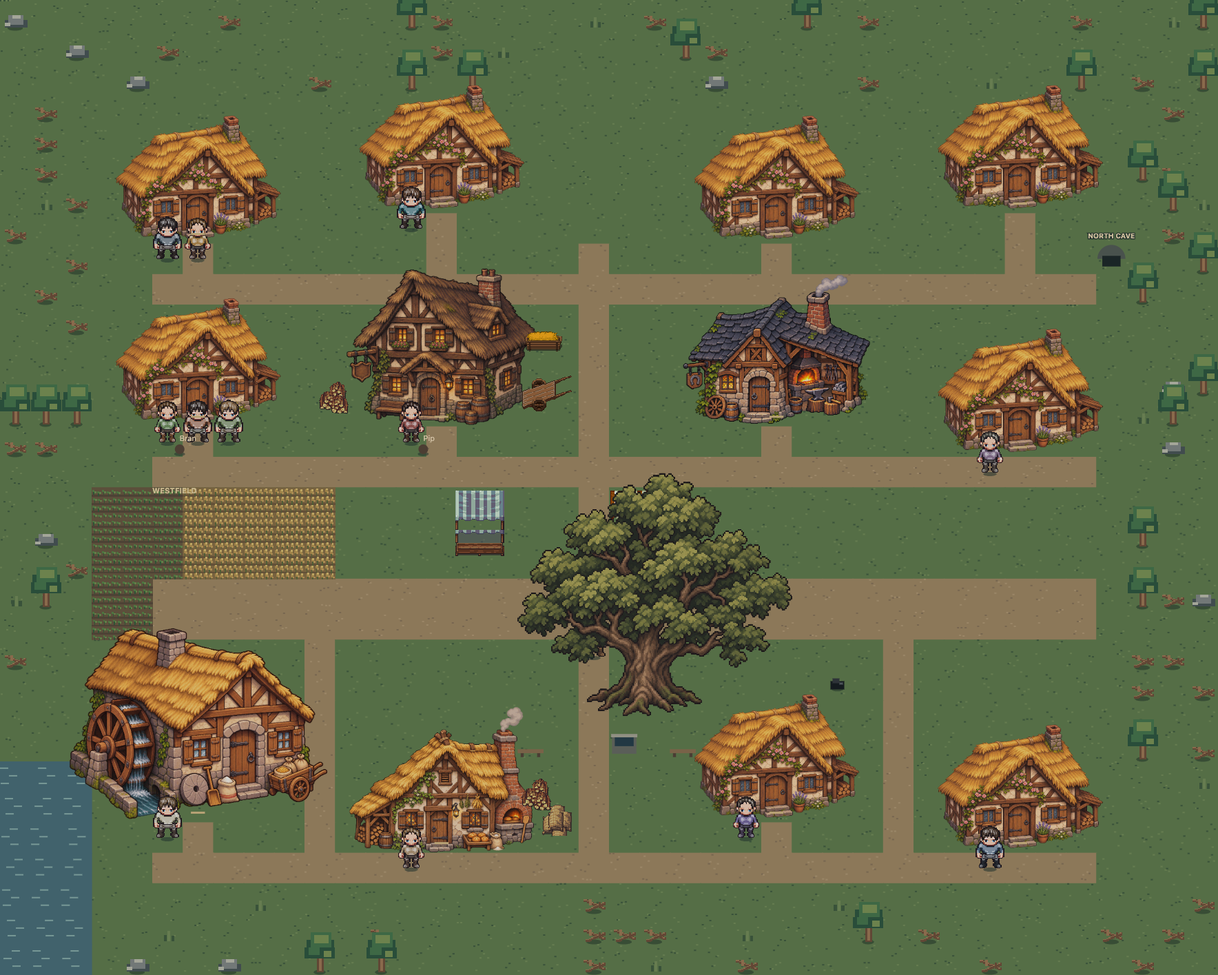
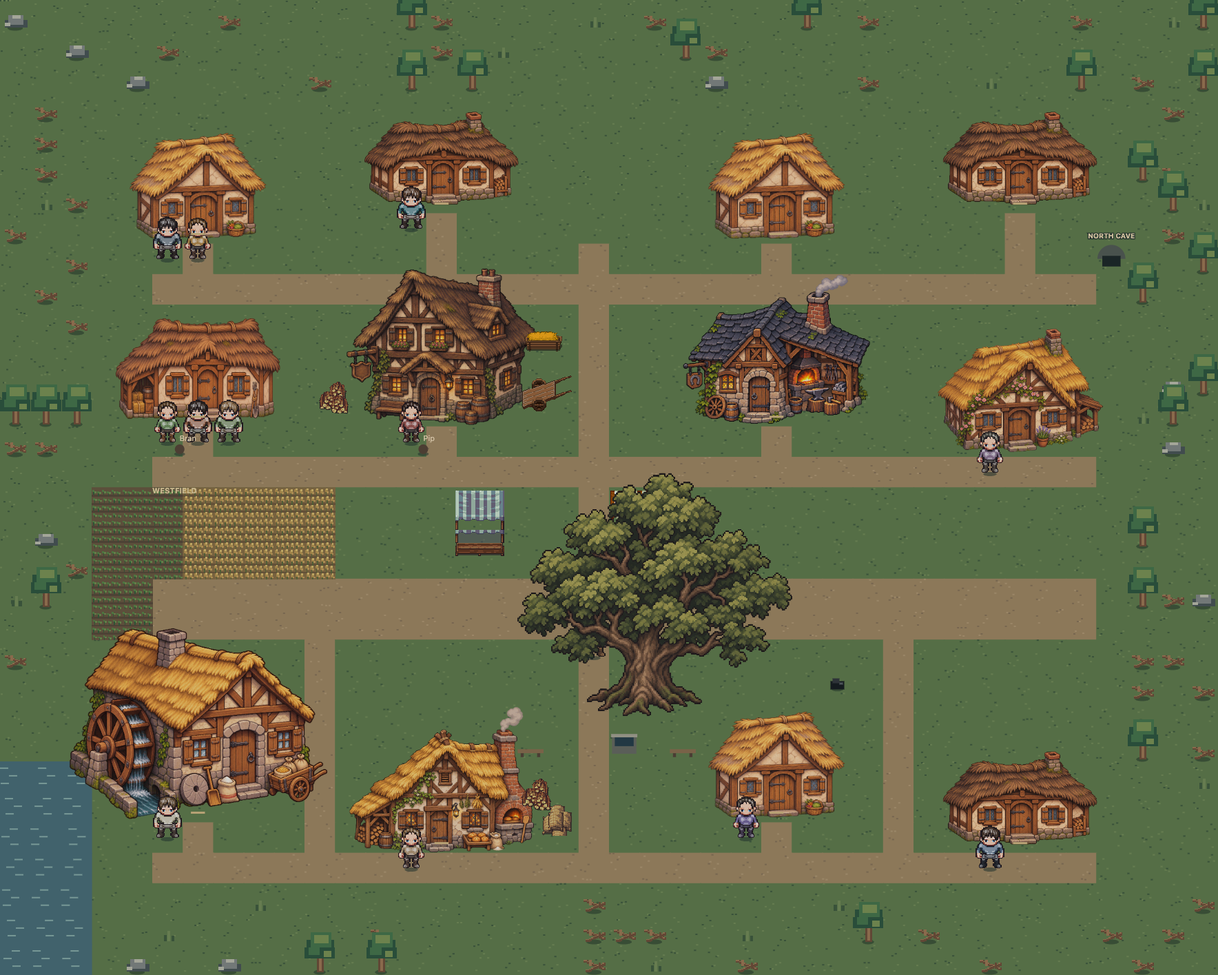
Publish playable Dunmere build

diff --git a/dunmere-living.html b/dunmere-living.html
@@ -1,4 +1,4 @@
-<!doctype html><html lang="en"><head><meta charset="utf-8"><meta name="viewport" content="width=device-width,initial-scale=1,maximum-scale=1,user-scalable=no"><title>Project Kingdom | Brooklands</title><style>*{box-sizing:border-box}body{margin:0;overflow:hidden;background:#293a2e;color:#f4e6ca;font:13px system-ui;touch-action:none}canvas{display:block;width:100vw;height:100dvh}#hud{position:absolute;top:8px;left:8px;max-width:calc(100vw - 172px);background:#182a20e8;border:1px solid #bda578;border-radius:8px;padding:10px;z-index:3}#hud small{display:block;color:#d7c8a9;margin-top:3px}button{background:#435a46;color:#f9ebcc;border:1px solid #cfb98b;border-radius:8px;padding:9px;font:inherit}#actions{position:absolute;right:8px;top:8px;display:grid;grid-template-columns:repeat(2,minmax(0,1fr));gap:5px;width:146px;z-index:4}#actions button{padding:7px 4px;font-size:12px}#joy{position:absolute;left:18px;bottom:22px;width:132px;height:132px;border:3px solid #e0c796;border-radius:50%;background:#253e48aa;touch-action:none;user-select:none;z-index:4}#knob{position:absolute;left:50%;top:50%;width:42px;height:42px;margin-left:-21px;margin-top:-21px;background:#e0c796;border-radius:50%;pointer-events:none;box-shadow:0 2px 8px #0008}#a{position:absolute;right:22px;bottom:43px;width:74px;height:74px;border-radius:50%;background:#875845;font-size:23px;z-index:4}#b{position:absolute;right:104px;bottom:26px;width:66px;height:66px;border-radius:50%;background:#735548;font-size:22px;z-index:4;touch-action:manipulation}#panel{display:none;position:absolute;left:6%;right:6%;bottom:157px;max-height:48vh;overflow:auto;background:#182b21;border:2px solid #d0b486;border-radius:10px;padding:12px;z-index:6}#panel button{margin:4px}#debugpanel{display:none;position:absolute;z-index:9;right:8px;top:52px;width:min(370px,94vw);max-height:67dvh;overflow:auto;background:#13251cf2;border:1px solid #d0b486;border-radius:9px;padding:12px;font:12px ui-monospace,monospace;white-space:pre-wrap;overflow-wrap:anywhere}#debugpanel button{margin:4px}#hint{position:absolute;bottom:6px;left:50%;transform:translateX(-50%);font-size:11px;white-space:nowrap;text-shadow:0 2px 4px black;z-index:3}@media(orientation:landscape){#panel{left:24%;right:24%;bottom:10px}}#bagpanel{display:none;position:absolute;z-index:11;left:50%;top:50%;transform:translate(-50%,-50%);width:min(94vw,380px);background:#1e2b25;border:2px solid #bba077;border-radius:12px;padding:14px;box-shadow:0 8px 45px #000b}#baggrid{display:grid;grid-template-columns:repeat(5,minmax(0,1fr));gap:5px;margin:12px 0}.bagslot{aspect-ratio:1;position:relative;background:#3c4a3c;border:2px solid #756d52;border-radius:5px;touch-action:none;display:flex;align-items:center;justify-content:center;padding:2px}.bagslot.selected{border-color:#e4c881;background:#596047}.bagslot svg{width:85%;height:85%;image-rendering:pixelated;pointer-events:none}.bagslot .qty{position:absolute;bottom:1px;right:4px;color:#f7e9c9;font-weight:bold;text-shadow:1px 1px #111;pointer-events:none}#bagmenu{min-height:46px;display:flex;flex-wrap:wrap;gap:5px}#bagmenu button{padding:7px}#bagpanel .bagheader{display:flex;justify-content:space-between;align-items:center}#baghint{font-size:11px;color:#bcb59d}#bagghost{position:fixed;z-index:30;pointer-events:none;width:54px;height:54px;opacity:.85;display:none}#bagghost svg{width:100%;height:100%}#bagpanel button{touch-action:manipulation}#menutabs{display:grid;grid-template-columns:repeat(4,1fr);gap:3px;margin:10px 0}#menutabs button{font-size:11px;padding:8px 2px}#menutabs button.active{background:#9a754b}#otherview{white-space:pre-line;line-height:1.7;min-height:150px;padding:10px;background:#29392e;border-radius:6px}#bagpanel{max-height:85dvh;overflow:auto}#hud{background:linear-gradient(90deg,#16231ccc,#16231c88);border:0;padding:7px 9px;border-radius:6px;max-width:calc(100vw - 90px);pointer-events:none}#hud b{font-size:11px;letter-spacing:.09em}#hud #stock,#hud #activity{display:none}#actions{display:block;width:auto;right:12px;top:calc(12px + env(safe-area-inset-top,0px))}#actions button{width:44px;height:44px;font-size:23px;background:#273c31dd;border:1px solid #8b987b;border-radius:11px}#devtools{display:none;position:absolute;z-index:12;top:62px;right:10px;background:#1a2823;padding:8px;border-radius:8px;gap:5px;flex-wrap:wrap;max-width:230px}body.dev-mode #devtools{display:flex}#joy{bottom:calc(18px + env(safe-area-inset-bottom,0px));left:18px;background:#223c39aa;border-color:#c9ba92aa}#a{bottom:calc(51px + env(safe-area-inset-bottom,0px));right:19px;box-shadow:0 4px 0 #4b2e27}#b{bottom:calc(27px + env(safe-area-inset-bottom,0px));right:106px;box-shadow:0 4px 0 #3f3028}#a:active,#b:active{transform:translateY(3px);box-shadow:0 1px 0 #392d25}#hint{bottom:calc(6px + env(safe-area-inset-bottom,0px));font-size:11px;max-width:50vw;text-align:center;white-space:normal}#menutabs{grid-template-columns:repeat(6,minmax(0,1fr))}#bagpanel{max-height:78dvh}#panel{white-space:pre-line}@media(max-width:380px){#joy{width:116px;height:116px}#a{width:68px;height:68px}#b{width:60px;height:60px;right:96px}#menutabs button{font-size:10px}}#desktop-controls{display:none;position:absolute;left:12px;bottom:12px;z-index:3;background:#182a20dc;border:1px solid #bda578;border-radius:8px;padding:8px 11px;color:#f4e6ca;font-size:12px;pointer-events:none}@media(hover:hover) and (pointer:fine){#joy,#a,#b{display:none}#desktop-controls{display:block}#hint{bottom:49px}}</style></head><body><canvas id="map"></canvas><div id="desktop-controls">WASD / arrows: move · E / left click: interact · Space / right click: attack · I: bag · Esc: close</div><div id="hud"><b>VEYRA · DUNMERE</b><small id="time">Day 1 · 06:00</small><small id="stock">Village</small><small id="activity">12 residents · 2 pets</small></div><div id="actions"><button id="inventory" aria-label="Open game menu">☰</button></div><div id="devtools"><button id="speed">Time ×1</button><button id="journal">Town</button><button id="savegame">Save</button><button id="debug">Debug</button></div><div id="joy"><div id="knob"></div></div><button id="a" aria-label="Interact">A</button><button id="b" aria-label="Attack">B</button><div id="bagpanel"><div class="bagheader"><b>TRAVELER'S BAG</b><button id="closebag">Close</button></div><div id="menutabs"><button data-tab="bag">Bag</button><button data-tab="character">Character</button><button data-tab="stats">Stats</button><button data-tab="map">Map</button><button data-tab="commitments">Journal</button><button data-tab="settings">Settings</button></div><div id="bagview"><div id="bagstats"></div><div id="baggrid"></div><div id="baghint">Tap for actions. Drag to move or swap.</div><div id="bagmenu"></div></div><div id="otherview"></div></div><div id="bagghost"></div><div id="panel"><h3 id="heading"></h3><p id="description"></p><div id="choices"></div></div><div id="debugpanel"><div id="debugstats"></div><button id="copydebug">Copy report</button><button id="closedebug">Close</button><div id="debuglog"></div></div><div id="hint" aria-live="polite"></div><script src="dunmere-debug.js"></script><script src="dunmere-item-catalog.js?v=2"></script><script src="dunmere-crafting.js?v=3"></script><script src="dunmere-npc-ai.js?v=11"></script><script src="dunmere-town-sim.js?v=5"></script><script src="dunmere-village-layout.js?v=6"></script><script src="dunmere-region.js?v=3"></script><script src="dunmere-inn-sprites.js?v=10"></script><script src="dunmere-interiors.js?v=7"></script><script src="dunmere-bakery-routine.js?v=1"></script><script src="dunmere-food.js?v=3"></script><script src="dunmere-hauling-v2.js?v=3"></script><script src="dunmere-navigation.js"></script><script src="dunmere-npc-traffic.js?v=1"></script><script src="dunmere-clock.js?v=2"></script><script src="dunmere-land.js?v=2"></script><script src="dunmere-save-store.js"></script><script src="dunmere-survival.js"></script><script src="dunmere-art.js?v=22"></script><script src="dunmere-player-frames.js?v=11"></script><script src="dunmere-character-system.js?v=5"></script><script src="dunmere-dialogue.js"></script><script src="dunmere-actions.js"></script><script src="dunmere-bag.js?v=3"></script><script src="dunmere-inn-shop.js?v=2"></script><script src="dunmere-bakery-shop.js?v=1"></script><script>
+<!doctype html><html lang="en"><head><meta charset="utf-8"><meta name="viewport" content="width=device-width,initial-scale=1,maximum-scale=1,user-scalable=no"><title>Project Kingdom | Brooklands</title><style>*{box-sizing:border-box}body{margin:0;overflow:hidden;background:#293a2e;color:#f4e6ca;font:13px system-ui;touch-action:none}canvas{display:block;width:100vw;height:100dvh}#hud{position:absolute;top:8px;left:8px;max-width:calc(100vw - 172px);background:#182a20e8;border:1px solid #bda578;border-radius:8px;padding:10px;z-index:3}#hud small{display:block;color:#d7c8a9;margin-top:3px}button{background:#435a46;color:#f9ebcc;border:1px solid #cfb98b;border-radius:8px;padding:9px;font:inherit}#actions{position:absolute;right:8px;top:8px;display:grid;grid-template-columns:repeat(2,minmax(0,1fr));gap:5px;width:146px;z-index:4}#actions button{padding:7px 4px;font-size:12px}#joy{position:absolute;left:18px;bottom:22px;width:132px;height:132px;border:3px solid #e0c796;border-radius:50%;background:#253e48aa;touch-action:none;user-select:none;z-index:4}#knob{position:absolute;left:50%;top:50%;width:42px;height:42px;margin-left:-21px;margin-top:-21px;background:#e0c796;border-radius:50%;pointer-events:none;box-shadow:0 2px 8px #0008}#a{position:absolute;right:22px;bottom:43px;width:74px;height:74px;border-radius:50%;background:#875845;font-size:23px;z-index:4}#b{position:absolute;right:104px;bottom:26px;width:66px;height:66px;border-radius:50%;background:#735548;font-size:22px;z-index:4;touch-action:manipulation}#panel{display:none;position:absolute;left:6%;right:6%;bottom:157px;max-height:48vh;overflow:auto;background:#182b21;border:2px solid #d0b486;border-radius:10px;padding:12px;z-index:6}#panel button{margin:4px}#debugpanel{display:none;position:absolute;z-index:9;right:8px;top:52px;width:min(370px,94vw);max-height:67dvh;overflow:auto;background:#13251cf2;border:1px solid #d0b486;border-radius:9px;padding:12px;font:12px ui-monospace,monospace;white-space:pre-wrap;overflow-wrap:anywhere}#debugpanel button{margin:4px}#hint{position:absolute;bottom:6px;left:50%;transform:translateX(-50%);font-size:11px;white-space:nowrap;text-shadow:0 2px 4px black;z-index:3}@media(orientation:landscape){#panel{left:24%;right:24%;bottom:10px}}#bagpanel{display:none;position:absolute;z-index:11;left:50%;top:50%;transform:translate(-50%,-50%);width:min(94vw,380px);background:#1e2b25;border:2px solid #bba077;border-radius:12px;padding:14px;box-shadow:0 8px 45px #000b}#baggrid{display:grid;grid-template-columns:repeat(5,minmax(0,1fr));gap:5px;margin:12px 0}.bagslot{aspect-ratio:1;position:relative;background:#3c4a3c;border:2px solid #756d52;border-radius:5px;touch-action:none;display:flex;align-items:center;justify-content:center;padding:2px}.bagslot.selected{border-color:#e4c881;background:#596047}.bagslot svg{width:85%;height:85%;image-rendering:pixelated;pointer-events:none}.bagslot .qty{position:absolute;bottom:1px;right:4px;color:#f7e9c9;font-weight:bold;text-shadow:1px 1px #111;pointer-events:none}#bagmenu{min-height:46px;display:flex;flex-wrap:wrap;gap:5px}#bagmenu button{padding:7px}#bagpanel .bagheader{display:flex;justify-content:space-between;align-items:center}#baghint{font-size:11px;color:#bcb59d}#bagghost{position:fixed;z-index:30;pointer-events:none;width:54px;height:54px;opacity:.85;display:none}#bagghost svg{width:100%;height:100%}#bagpanel button{touch-action:manipulation}#menutabs{display:grid;grid-template-columns:repeat(4,1fr);gap:3px;margin:10px 0}#menutabs button{font-size:11px;padding:8px 2px}#menutabs button.active{background:#9a754b}#otherview{white-space:pre-line;line-height:1.7;min-height:150px;padding:10px;background:#29392e;border-radius:6px}#bagpanel{max-height:85dvh;overflow:auto}#hud{background:linear-gradient(90deg,#16231ccc,#16231c88);border:0;padding:7px 9px;border-radius:6px;max-width:calc(100vw - 90px);pointer-events:none}#hud b{font-size:11px;letter-spacing:.09em}#hud #stock,#hud #activity{display:none}#actions{display:block;width:auto;right:12px;top:calc(12px + env(safe-area-inset-top,0px))}#actions button{width:44px;height:44px;font-size:23px;background:#273c31dd;border:1px solid #8b987b;border-radius:11px}#devtools{display:none;position:absolute;z-index:12;top:62px;right:10px;background:#1a2823;padding:8px;border-radius:8px;gap:5px;flex-wrap:wrap;max-width:230px}body.dev-mode #devtools{display:flex}#joy{bottom:calc(18px + env(safe-area-inset-bottom,0px));left:18px;background:#223c39aa;border-color:#c9ba92aa}#a{bottom:calc(51px + env(safe-area-inset-bottom,0px));right:19px;box-shadow:0 4px 0 #4b2e27}#b{bottom:calc(27px + env(safe-area-inset-bottom,0px));right:106px;box-shadow:0 4px 0 #3f3028}#a:active,#b:active{transform:translateY(3px);box-shadow:0 1px 0 #392d25}#hint{bottom:calc(6px + env(safe-area-inset-bottom,0px));font-size:11px;max-width:50vw;text-align:center;white-space:normal}#menutabs{grid-template-columns:repeat(6,minmax(0,1fr))}#bagpanel{max-height:78dvh}#panel{white-space:pre-line}@media(max-width:380px){#joy{width:116px;height:116px}#a{width:68px;height:68px}#b{width:60px;height:60px;right:96px}#menutabs button{font-size:10px}}#desktop-controls{display:none;position:absolute;left:12px;bottom:12px;z-index:3;background:#182a20dc;border:1px solid #bda578;border-radius:8px;padding:8px 11px;color:#f4e6ca;font-size:12px;pointer-events:none}@media(hover:hover) and (pointer:fine){#joy,#a,#b{display:none}#desktop-controls{display:block}#hint{bottom:49px}}</style></head><body><canvas id="map"></canvas><div id="desktop-controls">WASD / arrows: move · E / left click: interact · Space / right click: attack · I: bag · Esc: close</div><div id="hud"><b>VEYRA · DUNMERE</b><small id="time">Day 1 · 06:00</small><small id="stock">Village</small><small id="activity">12 residents · 2 pets</small></div><div id="actions"><button id="inventory" aria-label="Open game menu">☰</button></div><div id="devtools"><button id="speed">Time ×1</button><button id="journal">Town</button><button id="savegame">Save</button><button id="debug">Debug</button></div><div id="joy"><div id="knob"></div></div><button id="a" aria-label="Interact">A</button><button id="b" aria-label="Attack">B</button><div id="bagpanel"><div class="bagheader"><b>TRAVELER'S BAG</b><button id="closebag">Close</button></div><div id="menutabs"><button data-tab="bag">Bag</button><button data-tab="character">Character</button><button data-tab="stats">Stats</button><button data-tab="map">Map</button><button data-tab="commitments">Journal</button><button data-tab="settings">Settings</button></div><div id="bagview"><div id="bagstats"></div><div id="baggrid"></div><div id="baghint">Tap for actions. Drag to move or swap.</div><div id="bagmenu"></div></div><div id="otherview"></div></div><div id="bagghost"></div><div id="panel"><h3 id="heading"></h3><p id="description"></p><div id="choices"></div></div><div id="debugpanel"><div id="debugstats"></div><button id="copydebug">Copy report</button><button id="closedebug">Close</button><div id="debuglog"></div></div><div id="hint" aria-live="polite"></div><script src="dunmere-debug.js"></script><script src="dunmere-item-catalog.js?v=2"></script><script src="dunmere-crafting.js?v=3"></script><script src="dunmere-npc-ai.js?v=11"></script><script src="dunmere-town-sim.js?v=5"></script><script src="dunmere-village-layout.js?v=6"></script><script src="dunmere-region.js?v=3"></script><script src="dunmere-inn-sprites.js?v=10"></script><script src="dunmere-interiors.js?v=7"></script><script src="dunmere-bakery-routine.js?v=1"></script><script src="dunmere-food.js?v=3"></script><script src="dunmere-hauling-v2.js?v=3"></script><script src="dunmere-navigation.js"></script><script src="dunmere-npc-traffic.js?v=1"></script><script src="dunmere-clock.js?v=2"></script><script src="dunmere-land.js?v=2"></script><script src="dunmere-save-store.js"></script><script src="dunmere-survival.js"></script><script src="dunmere-art.js?v=23"></script><script src="dunmere-player-frames.js?v=11"></script><script src="dunmere-character-system.js?v=5"></script><script src="dunmere-dialogue.js"></script><script src="dunmere-actions.js"></script><script src="dunmere-bag.js?v=3"></script><script src="dunmere-inn-shop.js?v=2"></script><script src="dunmere-bakery-shop.js?v=1"></script><script>
 "use strict";
 const devMode=new URLSearchParams(location.search).get('dev')==='1';if(devMode)document.body.classList.add('dev-mode');const $=id=>document.getElementById(id),canvas=$('map'),ctx=canvas.getContext('2d'),world=DunmereTown.create(874),locations=Object.fromEntries(world.places.map(p=>[p.id,p]));const foodSystem=DunmereFood.create(world);world.attachFood(foodSystem);const hauling=DunmereHaulingV2.create(world,foodSystem);world.attachHauling(hauling);foodSystem.attachLogistics(hauling);const dialogueAI=KingdomDialogue.create(world);try{const saved=localStorage.getItem("dunmere-dialogue-v1");if(saved)dialogueAI.restore(JSON.parse(saved))}catch(e){KingdomDebug.add("warn","Conversation restore unavailable",String(e))}const actions=KingdomActions.create(world,dialogueAI);try{const saved=localStorage.getItem("dunmere-actions-v1");if(saved)actions.restore(JSON.parse(saved))}catch(e){KingdomDebug.add("warn","Action restore unavailable",String(e))}const bag=KingdomBag.create(actions);try{const saved=localStorage.getItem("dunmere-bag-v1");if(saved)bag.restore(JSON.parse(saved))}catch(e){KingdomDebug.add("warn","Bag restore failed",String(e))}bag.reconcile();const innShop=KingdomInnShop.create(world,foodSystem,bag);const bakeryShop=KingdomBakeryShop.create(world,foodSystem,bag,innShop);if(!localStorage.getItem("dunmere-survival-starter-v1")){if(!bag.count("axe"))bag.add("axe",1);if(!bag.count("hoe"))bag.add("hoe",1);if(!bag.count("seed"))bag.add("seed",8);if(!bag.equipped){const axeIndex=bag.slots.findIndex(x=>x?.id==="axe");if(axeIndex>=0)bag.act(axeIndex,"equip")}try{localStorage.setItem("dunmere-survival-starter-v1","1")}catch(e){KingdomDebug.add("warn","Starter marker unavailable",String(e))}}let layoutMigrationNeeded=false;const SAVE_KEY="dunmere-world-v1";const saveStore=KingdomSaveStore.create(localStorage,SAVE_KEY);const clock=KingdomClock.create(225);const land=KingdomLand.create(bag,(x,y)=>village.road(x,y));const survival=KingdomSurvival.create();const village=DunmereVillageLayout.create(world.places,world.residents),interiors=KingdomInteriors.create(village.buildings),W=village.width,H=village.height,S=34;const region=KingdomRegion.create(),bakeryRoutine=KingdomBakeryRoutine.create();let zone='brooklands',regionPlayer={x:25.5,y:78.5};let roomId=null,roomPlayer={x:5.5,y:7.25},roomRentalExpiresAt=0,caveGatherDay=0,seated=false,seatIndex=0,player={x:19.5,y:21.5},actors=world.residents.map((r,i)=>({id:i,x:village.porch(r.home,i)[0],y:village.porch(r.home,i)[1],path:[],destination:null,stuck:0,facing:"down",moving:false,walkMs:0})),pets=world.pets.map(p=>({name:p.name,owner:p.owner,x:actors[p.owner].x+.4,y:actors[p.owner].y+.3})),stick=[0,0],facing=[0,1],attackUntil=0,lastAttack=-10000,pointer=null,last=performance.now(),acc=0,speed=1,camera=[0,0],playerMoving=false,playerWalkMs=0;
 function checkpoint(){return {version:1,layoutVersion:6,zone,regionPlayer:{...regionPlayer},regionState:region.snapshot(),survival:survival.save(),land:land.save(),clock:clock.snapshot(),town:world.save(),food:foodSystem.save(),hauling:hauling.snapshot(),player:{...player},interiorId:roomId,roomPlayer:{...roomPlayer},roomRentalExpiresAt,caveGatherDay,seated,seatIndex,innShop:innShop.snapshot(),bakeryShop:bakeryShop.snapshot(),actors:actors.map(a=>({...a,path:a.path.map(p=>[...p])})),pets:pets.map(p=>({...p})),speed,dialogue:dialogueAI.snapshot(),actions:actions.snapshot(),bag:bag.snapshot()}}
@@ -127,7 +127,7 @@ let selectedSlot=null,bagPointer=null,activeMenuTab='bag';
 function saveBag(){try{localStorage.setItem('dunmere-bag-v1',JSON.stringify(bag.snapshot()))}catch(e){KingdomDebug.add('warn','Bag save failed',String(e))}}
 function bagAction(index,action){const item=bag.slots[index];if(!item)return;const result=bag.act(index,action);if(result.ok&&action==='drop'&&item.id==='charcoal'){actions.discardCharcoal(1);persistActions()}if(result.ok&&action==='eat')survival.eat(result.nutrition);saveBag();renderBag();$('baghint').textContent=result.message||'Action completed.'}
 function renderBag(){bag.reconcile();$('bagstats').textContent=bag.weight.toFixed(1)+' kg carried · '+innShop.snapshot().coins+' copper · Hand: '+(bag.equipped?bag.defs[bag.equipped].name:'Empty');const grid=$('baggrid');grid.replaceChildren();bag.slots.forEach((item,i)=>{const cell=document.createElement('div');cell.className='bagslot'+(selectedSlot===i?' selected':'');cell.dataset.slot=i;if(item){cell.innerHTML=bag.pixel(item.id)+'<span class="qty">'+(item.count>1?item.count:'')+'</span>'}grid.append(cell)});const menu=$('bagmenu');menu.replaceChildren();const item=bag.slots[selectedSlot];if(item){const label=document.createElement('span');label.textContent=bag.defs[item.id].name+' × '+item.count;label.style.width='100%';menu.append(label);const allowed=['drop',...(bag.defs[item.id].type==='food'?['eat']:[]),...(bag.defs[item.id].type==='drink'?['drink']:[]),...(bag.defs[item.id].slot?['equip']:[])];for(const action of allowed){const btn=document.createElement('button');btn.textContent=action[0].toUpperCase()+action.slice(1);btn.onclick=()=>bagAction(selectedSlot,action);menu.append(btn)}}}
-function renderMenu(){for(const btn of document.querySelectorAll('#menutabs button'))btn.classList.toggle('active',btn.dataset.tab===activeMenuTab);$('bagview').style.display=activeMenuTab==='bag'?'block':'none';$('otherview').style.display=activeMenuTab==='bag'?'none':'block';if(activeMenuTab==='bag'){renderBag();const craft=document.createElement('button');craft.textContent='Craft tools';craft.onclick=()=>{closeBag();const options=Object.entries(KingdomCraft.recipes).map(([id,r])=>[r.name+' ('+Object.entries(r.ingredients).map(([k,n])=>n+' '+k).join(', ')+')',()=>{const result=KingdomCraft.craft(bag,id);if(result.ok){saveBag();saveWorld()}dialog('Crafting',result.message,[['Back',()=>{close();openBag()}],['Close',close]])}]);dialog('Craft tools','Choose a recipe.',[...options,['Cancel',close]])};$('bagmenu').append(craft);return}const o=$('otherview');o.replaceChildren();const line=t=>{const d=document.createElement('div');d.textContent=t;o.append(d)};if(activeMenuTab==='character'){line('Wanderer of Veyra');line('EQUIPMENT');line('Main hand: '+(bag.equipped?bag.defs[bag.equipped].name:'Empty'));line(playerBodyType==='female'?'Worn: linen shirt · wool trousers · leather boots':'Worn: linen shirt · wool trousers · leather boots');line('Head, armor, gloves: Empty');line('Carried weight: '+bag.weight.toFixed(1)+' kg');const preview=document.createElement('button');preview.textContent=underwearPreview?'Show starter outfit':'Preview underwear base';preview.onclick=()=>{underwearPreview=!underwearPreview;try{localStorage.setItem('dunmere-underwear-preview-v1',underwearPreview?'1':'0')}catch(e){}renderMenu()};o.append(preview);const bodyType=document.createElement('button');bodyType.textContent='Body model: '+(playerBodyType==='female'?'Female':'Male');bodyType.onclick=()=>{playerBodyType=playerBodyType==='female'?'male':'female';try{localStorage.setItem('dunmere-player-body-type-v1',playerBodyType)}catch(e){}renderMenu()};o.append(bodyType);const credits=document.createElement('a');credits.href='character-art-credits.html';credits.target='_blank';credits.rel='noopener';credits.textContent='Character art credits';credits.style.cssText='display:block;color:#e9ce95;margin:10px 0';o.append(credits);line('Close the menu to see your character.')}else if(activeMenuTab==='map'){line('DUNMERE · CURRENT PLAYABLE TILES');const addMap=(src,alt)=>{const link=document.createElement('a');link.href=src;link.target='_blank';link.rel='noopener';const image=document.createElement('img');image.src=src;image.alt=alt;image.style.cssText='display:block;width:100%;height:auto;margin:8px 0;image-rendering:auto';link.append(image);o.append(link)};addMap('assets/dunmere-current-layout.png','Current exact 40 by 32 tile Dunmere layout rendered with the game sprites');line('Tap either image for full size. This first map matches the game today.');line('BROOKLANDS · REGIONAL ART DIRECTION');addMap('assets/dunmere-region-map-v2.png','Illustrated proposed region with brook, fields, woods, timber yard and ridge mine');line('The second map guides the larger Brooklands map, now open for exploration. Site art, buildings and economies are still being built out.')}else if(activeMenuTab==='stats'){line('Day '+world.snapshot().day);line('Location: '+(zone==='brooklands'?'Brooklands':'Dunmere'));line('Hunger: '+Math.round(survival.hunger)+'/100');line('Energy: '+Math.round(survival.energy)+'/100');line('Skills: in development');line('Village: '+(world.snapshot().season||'Spring'));line('Village work board');const board=world.workBoard();for(const r of world.residents){line(r.name+': '+(board[r.id]?.title||r.activity))}}else if(activeMenuTab==='settings'){line('GAME SETTINGS');line('Build: VILLAGE-LAYOUT-V2 / WALK-V13 / CHARACTER-LAYERS-V5 INTERIOR-MAPS-V1 HEARTH-INN-V6 / BAKEHOUSE-V2 / ITEM-CATALOG-V1 / REGIONAL-MAP-V3 / BROOKLANDS-V3 / GREEN-OAK-V3 / NPC-LABELS-V2 / SOCIAL-V2 / DOOR-FLOW-V2 / MARKET-SPRITES-V1 / EVENING-ROUTES-V1');line('Time: '+(speed===0?'Paused':speed+'×'));for(const [label,value] of [['Pause',0],['Normal',1],['Fast',4],['Very fast',12]]){const btn=document.createElement('button');btn.textContent=label;btn.onclick=()=>{speed=value;renderMenu();saveWorld()};o.append(btn)}const save=document.createElement('button');save.textContent='Save game';save.onclick=()=>{const ok=saveWorld();save.textContent=ok?'Saved':'Save failed'};o.append(save)}else{const states=dialogueAI.snapshot().states;let count=0;for(const r of world.residents){const st=states[r.id];if(!st)continue;for(const p of st.promises){count++;line((st.knowsName?r.name:'Stranger')+': '+p.subject);line(p.fulfilled?'Completed on day '+p.completedDay:'Outstanding since day '+p.day)}}if(!count)line('No commitments yet.')}}
+function renderMenu(){for(const btn of document.querySelectorAll('#menutabs button'))btn.classList.toggle('active',btn.dataset.tab===activeMenuTab);$('bagview').style.display=activeMenuTab==='bag'?'block':'none';$('otherview').style.display=activeMenuTab==='bag'?'none':'block';if(activeMenuTab==='bag'){renderBag();const craft=document.createElement('button');craft.textContent='Craft tools';craft.onclick=()=>{closeBag();const options=Object.entries(KingdomCraft.recipes).map(([id,r])=>[r.name+' ('+Object.entries(r.ingredients).map(([k,n])=>n+' '+k).join(', ')+')',()=>{const result=KingdomCraft.craft(bag,id);if(result.ok){saveBag();saveWorld()}dialog('Crafting',result.message,[['Back',()=>{close();openBag()}],['Close',close]])}]);dialog('Craft tools','Choose a recipe.',[...options,['Cancel',close]])};$('bagmenu').append(craft);return}const o=$('otherview');o.replaceChildren();const line=t=>{const d=document.createElement('div');d.textContent=t;o.append(d)};if(activeMenuTab==='character'){line('Wanderer of Veyra');line('EQUIPMENT');line('Main hand: '+(bag.equipped?bag.defs[bag.equipped].name:'Empty'));line(playerBodyType==='female'?'Worn: linen shirt · wool trousers · leather boots':'Worn: linen shirt · wool trousers · leather boots');line('Head, armor, gloves: Empty');line('Carried weight: '+bag.weight.toFixed(1)+' kg');const preview=document.createElement('button');preview.textContent=underwearPreview?'Show starter outfit':'Preview underwear base';preview.onclick=()=>{underwearPreview=!underwearPreview;try{localStorage.setItem('dunmere-underwear-preview-v1',underwearPreview?'1':'0')}catch(e){}renderMenu()};o.append(preview);const bodyType=document.createElement('button');bodyType.textContent='Body model: '+(playerBodyType==='female'?'Female':'Male');bodyType.onclick=()=>{playerBodyType=playerBodyType==='female'?'male':'female';try{localStorage.setItem('dunmere-player-body-type-v1',playerBodyType)}catch(e){}renderMenu()};o.append(bodyType);const credits=document.createElement('a');credits.href='character-art-credits.html';credits.target='_blank';credits.rel='noopener';credits.textContent='Character art credits';credits.style.cssText='display:block;color:#e9ce95;margin:10px 0';o.append(credits);line('Close the menu to see your character.')}else if(activeMenuTab==='map'){line('DUNMERE · CURRENT PLAYABLE TILES');const addMap=(src,alt)=>{const link=document.createElement('a');link.href=src;link.target='_blank';link.rel='noopener';const image=document.createElement('img');image.src=src;image.alt=alt;image.style.cssText='display:block;width:100%;height:auto;margin:8px 0;image-rendering:auto';link.append(image);o.append(link)};addMap('assets/dunmere-current-layout.png','Current exact 40 by 32 tile Dunmere layout rendered with the game sprites');line('Tap either image for full size. This first map matches the game today.');line('BROOKLANDS · REGIONAL ART DIRECTION');addMap('assets/dunmere-region-map-v2.png','Illustrated proposed region with brook, fields, woods, timber yard and ridge mine');line('The second map guides the larger Brooklands map, now open for exploration. Site art, buildings and economies are still being built out.')}else if(activeMenuTab==='stats'){line('Day '+world.snapshot().day);line('Location: '+(zone==='brooklands'?'Brooklands':'Dunmere'));line('Hunger: '+Math.round(survival.hunger)+'/100');line('Energy: '+Math.round(survival.energy)+'/100');line('Skills: in development');line('Village: '+(world.snapshot().season||'Spring'));line('Village work board');const board=world.workBoard();for(const r of world.residents){line(r.name+': '+(board[r.id]?.title||r.activity))}}else if(activeMenuTab==='settings'){line('GAME SETTINGS');line('Build: VILLAGE-LAYOUT-V2 / WALK-V13 / CHARACTER-LAYERS-V5 INTERIOR-MAPS-V1 HEARTH-INN-V6 / BAKEHOUSE-V2 / ITEM-CATALOG-V1 / REGIONAL-MAP-V3 / BROOKLANDS-V3 / HOMES-V2 / GREEN-OAK-V3 / NPC-LABELS-V2 / SOCIAL-V2 / DOOR-FLOW-V2 / MARKET-SPRITES-V1 / EVENING-ROUTES-V1');line('Time: '+(speed===0?'Paused':speed+'×'));for(const [label,value] of [['Pause',0],['Normal',1],['Fast',4],['Very fast',12]]){const btn=document.createElement('button');btn.textContent=label;btn.onclick=()=>{speed=value;renderMenu();saveWorld()};o.append(btn)}const save=document.createElement('button');save.textContent='Save game';save.onclick=()=>{const ok=saveWorld();save.textContent=ok?'Saved':'Save failed'};o.append(save)}else{const states=dialogueAI.snapshot().states;let count=0;for(const r of world.residents){const st=states[r.id];if(!st)continue;for(const p of st.promises){count++;line((st.knowsName?r.name:'Stranger')+': '+p.subject);line(p.fulfilled?'Completed on day '+p.completedDay:'Outstanding since day '+p.day)}}if(!count)line('No commitments yet.')}}
 function openBag(){bag.reconcile();selectedSlot=null;activeMenuTab='bag';$('bagpanel').style.display='block';renderMenu()}
 function closeBag(){$('bagpanel').style.display='none';selectedSlot=null;$('bagghost').style.display='none';bagPointer=null;saveBag()}
 $('inventory').onclick=()=>{$('bagpanel').style.display==='block'?closeBag():openBag()};

diff --git a/dunmere-art.js b/dunmere-art.js
@@ -72,8 +72,19 @@ function brickChimney(g,x,y,size,darkRoof){
  },20,40);
  g.drawImage(art,x,y,size*.62,size*1.14);
 }
+function buildingSpriteId(b){
+ if(b.kind==='tavern')return 'inn';
+ if(b.kind==='bakery')return 'bakery';
+ if(b.kind==='smithy')return 'forge';
+ if(b.kind==='mill')return 'mill';
+ if(b.kind==='healer')return 'cottage';
+ if(b.id==='cottage5')return 'farmhouse';
+ if(b.kind==='guard'||['cottage2','cottage4','eastern-cottage'].includes(b.id))return 'cottageLong';
+ if(['home','cottage','weaver'].includes(b.kind))return 'cottageModest';
+ return null;
+}
 function building(g,b,size,open=false){const x=b.x*size,y=b.y*size,w=b.w*size,h=b.h*size;
- const spriteId=b.kind==='tavern'?'inn':b.kind==='bakery'?'bakery':b.kind==='smithy'?'forge':['home','cottage','healer','weaver','guard'].includes(b.kind)?'cottage':b.kind==='mill'?'mill':null;
+ const spriteId=buildingSpriteId(b);
  if(spriteId&&regionSite(g,spriteId,b.x+b.w/2,b.y+b.h-1,size))return;
  if(b.kind==='tavern'&&root.KingdomInnSprites?.ready){const sprites=root.KingdomInnSprites;
   gableInfill(g,x,y,w,size);
@@ -105,7 +116,7 @@ function building(g,b,size,open=false){const x=b.x*size,y=b.y*size,w=b.w*size,h=
  // Roof drawn separately after exterior characters, preventing roof bleed-through.
 }
 function roof(g,b,size){const x=b.x*size,y=b.y*size,w=b.w*size,h=(b.h-1)*size;
- const spriteId=b.kind==='tavern'?'inn':b.kind==='bakery'?'bakery':b.kind==='smithy'?'forge':['home','cottage','healer','weaver','guard'].includes(b.kind)?'cottage':b.kind==='mill'?'mill':null;
+ const spriteId=buildingSpriteId(b);
  if(spriteId&&regionImages[spriteId]?.complete&&regionImages[spriteId].naturalWidth)return;
  const spriteBuilding=['tavern','bakery','home','cottage'].includes(b.kind)&&root.KingdomInnSprites?.ready;
  if(!spriteBuilding){
@@ -153,7 +164,7 @@ function landmarkOak(g,x,y,size,canopy=false,fade=false,scale=1){
 }
 const regionImages={};
 function regionSite(g,id,x,y,size){
- const config={inn:['brooklands-inn-v1.png',6.3,5.2],cottage:['brooklands-cottage-v1.png',5.5,4.3],bakery:['brooklands-bakehouse-v1.png',6.1,4.8],forge:['brooklands-forge-v1.png',6.2,5],mill:['brooklands-watermill-v1.png',8.5,6.4],timber:['brooklands-timber-yard-v1.png',9.5,6.4],mine:['brooklands-mine-v1.png',10.5,7]};
+ const config={inn:['brooklands-inn-v1.png',6.3,5.2],cottage:['brooklands-cottage-v1.png',5.5,4.3],cottageModest:['brooklands-cottage-modest-v1.png',4.9,3.8],cottageLong:['brooklands-cottage-long-v1.png',5.4,3.7],farmhouse:['brooklands-farmhouse-v1.png',5.6,3.7],bakery:['brooklands-bakehouse-v1.png',6.1,4.8],forge:['brooklands-forge-v1.png',6.2,5],mill:['brooklands-watermill-v1.png',8.5,6.4],timber:['brooklands-timber-yard-v1.png',9.5,6.4],mine:['brooklands-mine-v1.png',10.5,7]};
  const entry=config[id];if(!entry)return false;
  if(!regionImages[id]&&typeof Image!=='undefined'){const img=new Image();img.src='assets/'+entry[0];regionImages[id]=img}
  const img=regionImages[id];if(!img?.complete||!img.naturalWidth)return false;
